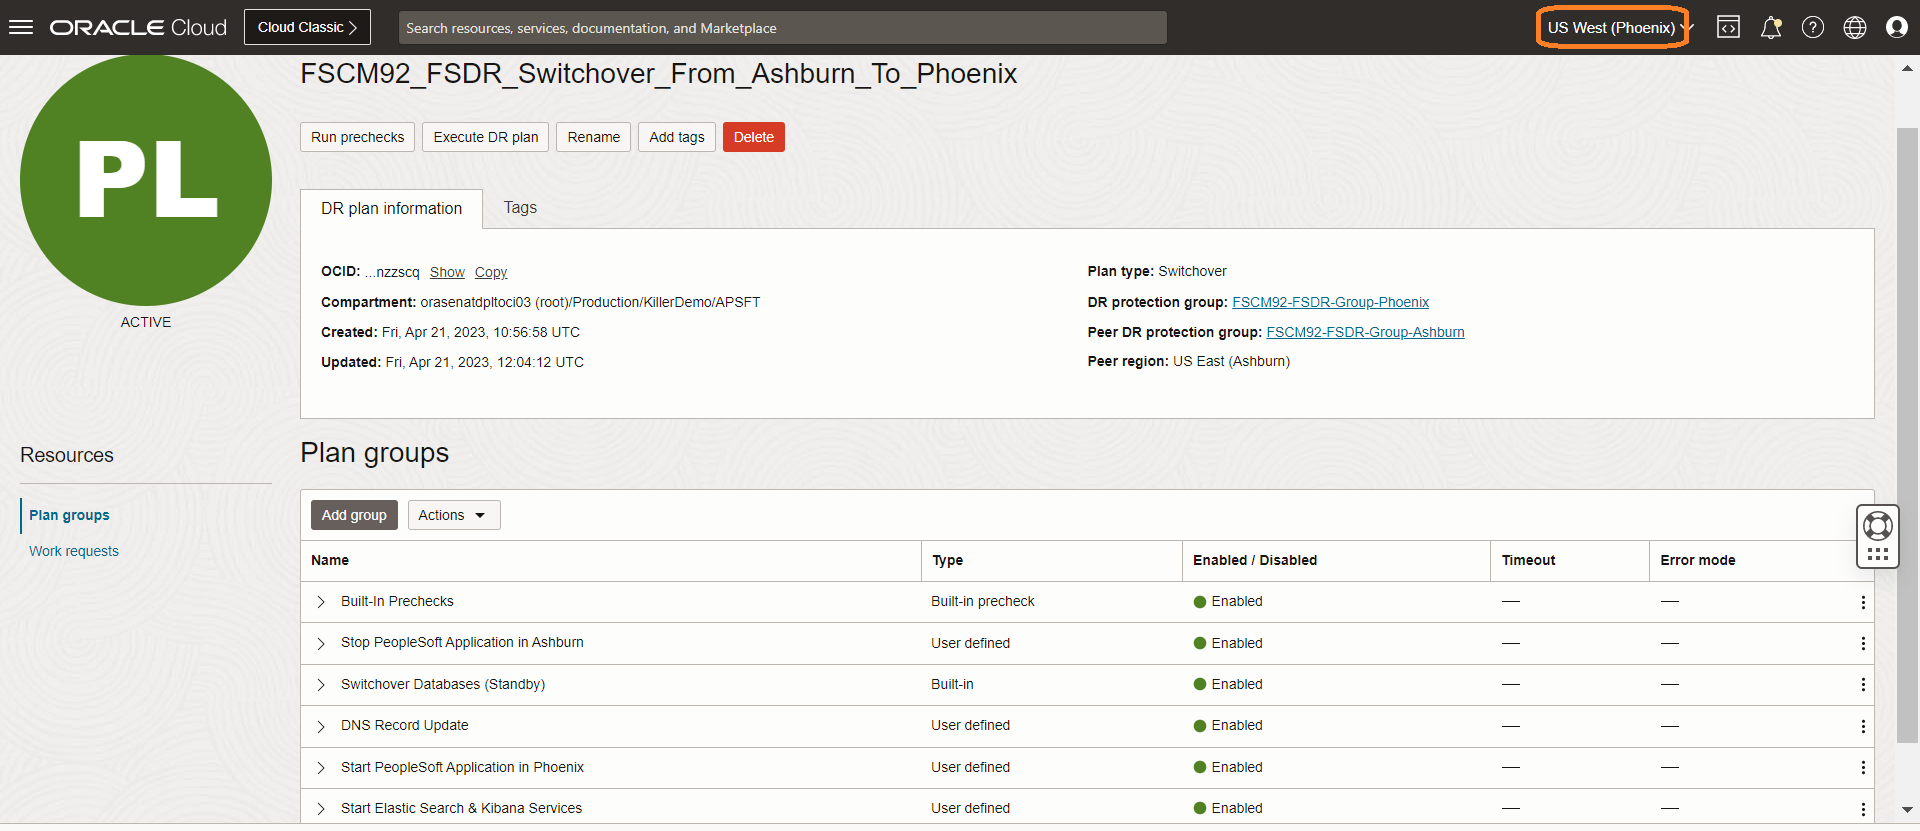
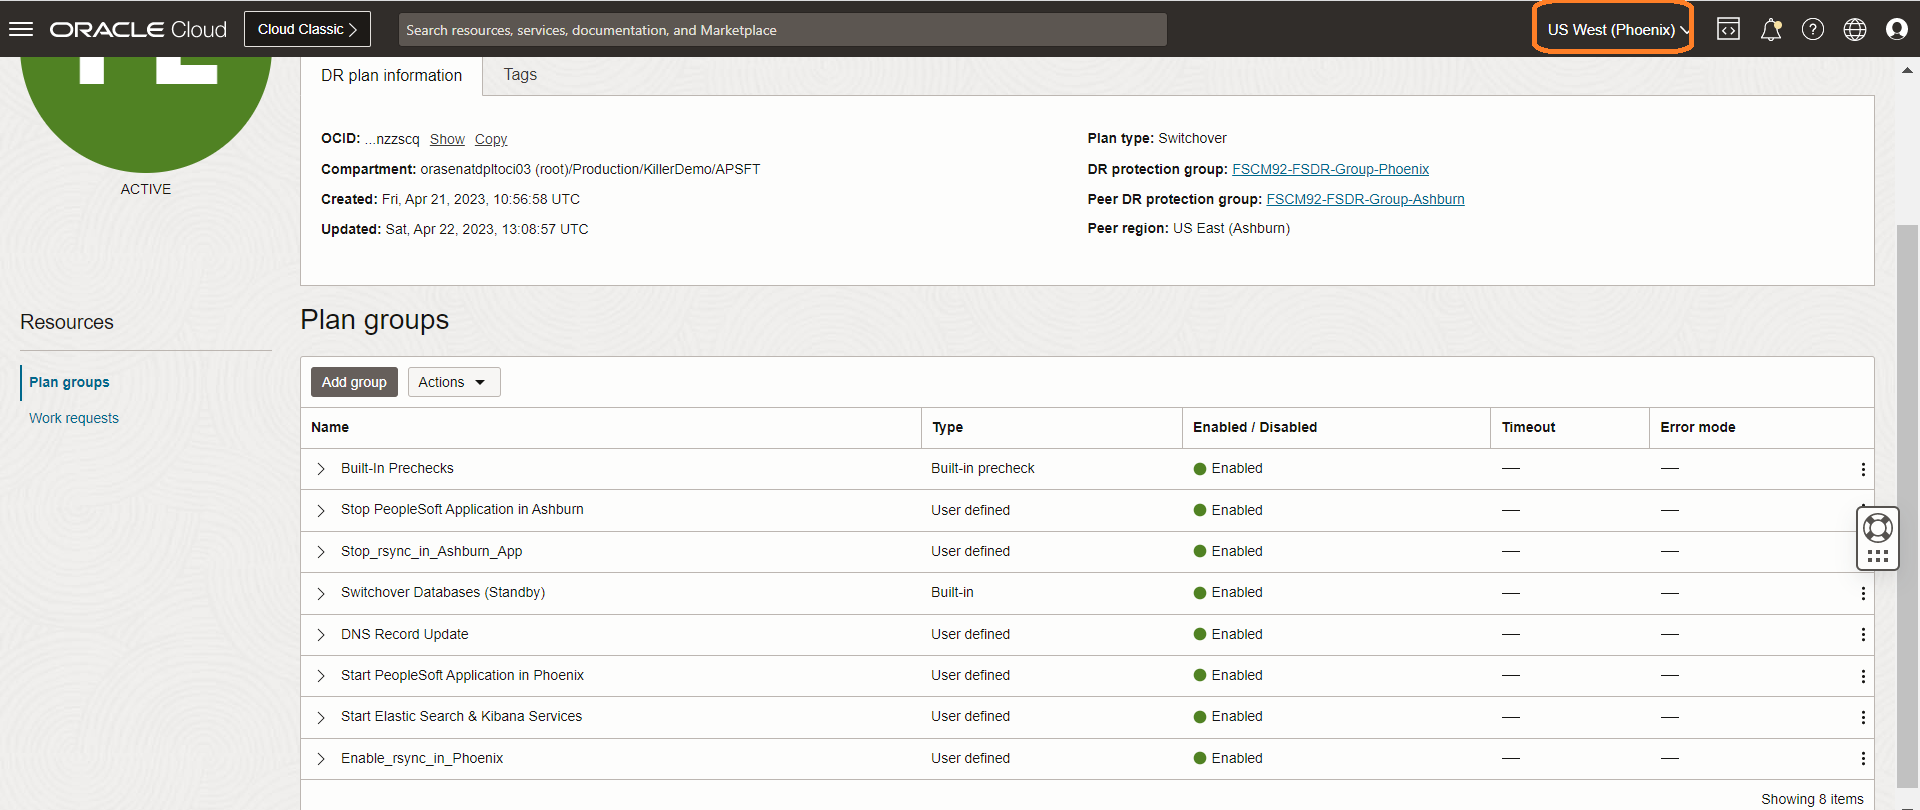
vb

diff --git a/peoplesoft-fullstack-dr/switchover-plan/switchover-plan.md b/peoplesoft-fullstack-dr/switchover-plan/switchover-plan.md
@@ -18,12 +18,15 @@ Estimated Time: 180 Minutes
 - Enable Run Commands on all the Compute Instances
 - Create a Switchover plan
 - Customize the Switchover plan - Add PeopleSoft Application Shutdown group
+- Customize the Switchover plan - Disable files synchronization (rsync) jobs in Ashburn
 - Customize the Switchover plan - Add DNS Record Update Script
 - Customize the Switchover plan - Add PeopleSoft Application Server boot up group
 - Customize the Switchover plan - Add PeopleSoft Process Scheduler Server (Linux) boot up group
 - Customize the Switchover plan - Add PeopleSoft Process Scheduler Server (Windows) boot up group
 - Customize the Switchover plan - Add PeopleSoft Web Server boot up group
 - Customize the Switchover plan - Add PeopleSoft Elastic Search & Kibana Service boot up group
+- Customize the Switchover plan - Enable files synchronization (rsync) jobs in Phoenix 
+- Customize the Switchover plan - DR Plan Re-Ordering
 
 ## Task 1: Enable Run Commands on an Instance
 
@@ -181,7 +184,7 @@ We will shutdown PeopleSoft Applicaitons in **Ashburn** region as we are doing t
   - Leave the Enable Step as ticked
   - Select Error mode as "Stop on error"
   - Leave the default "3600" seconds in Timeout in seconds
-  - In the region, select "US East (Ashburn)"
+  - In the region, select "**US East (Ashburn)**"
   - Select the "Run local script" option
   - Select the Application Server instance in "Target instance in compartment" where you have placed the Application Server Domain Shutdown script
   - In the script parameters, add the location of the Application Server Domain Shutdown script. Below is an example of Application Server Domain Shutdown script, please write a shutdown shell script according to your setup and configurations.
@@ -190,7 +193,7 @@ We will shutdown PeopleSoft Applicaitons in **Ashburn** region as we are doing t
 
     **psadmin -c shutdown! -d APPDOM01**
 
-    **cd /u01/app/psoft/fscm92-dbaas-vinay-app/ps\_cfg\_home/appserv/APPDOM01/**
+    **cd /u01/app/psoft/fscm92-dbaas-app/ps\_cfg\_home/appserv/APPDOM01/**
 
     **rm -rf CACHE**
 
@@ -210,7 +213,7 @@ Click on Add Step.
   - Leave the Enable Step as ticked
   - Select Error mode as "Stop on error"
   - Leave the default "3600" seconds in Timeout in seconds
-  - In the region, select "US East (Ashburn)"
+  - In the region, select "**US East (Ashburn)**"
   - Select the "Run local script" option
   - Select the Process Scheduler Server (Linux) instance in "Target instance in compartment" where you have placed the Process Scheduler Server Domain Shutdown script
   - In the script parameters, add the location of the Process Scheduler Server Domain Shutdown script. Below is an example of Process Scheduler Server Domain script, please write a shutdown shell script according to your setup and configurations.
@@ -219,7 +222,7 @@ Click on Add Step.
 
     **psadmin -p stop -d PRCSDOM01**
 
-    **cd /u01/app/psoft/fscm92-dbaas-vinay-prcs/ps\_cfg\_home/appserv/prcs/PRCSDOM01**
+    **cd /u01/app/psoft/fscm92-dbaas-prcs/ps\_cfg\_home/appserv/prcs/PRCSDOM01**
     
     **rm -rf CACHE** 
 
@@ -239,7 +242,7 @@ Click on Add Step.
   - Leave the Enable Step as ticked
   - Select Error mode as "Stop on error"
   - Leave the default "3600" seconds in Timeout in seconds
-  - In the region, select "US East (Ashburn)"
+  - In the region, select "**US East (Ashburn)**"
   - Select the "Run local script" option
   - Select the Process Scheduler Server (Windows) instance in "Target instance in compartment" where you have placed the Process Scheduler Server Domain Shutdown script
   - In the script parameters, add the location of the Process Scheduler Server Domain Shutdown script. Below is an example of Process Scheduler Server Domain script, please write a shutdown shell script according to your setup and configurations.
@@ -275,7 +278,7 @@ Click on Add Step.
   - Leave the Enable Step as ticked
   - Select Error mode as "Stop on error"
   - Leave the default "3600" seconds in Timeout in seconds
-  - In the region, select "US East (Ashburn)"
+  - In the region, select "**US East (Ashburn)**"
   - Select the "Run local script" option
   - Select the Web Server (Windows) instance in "Target instance in compartment" where you have placed the Web Server Domain Shutdown script
   - In the script parameters, add the location of theWeb Server Domain Shutdown script. Below is an example of Web Server Domain script, please write a shutdown shell script according to your setup and configurations.
@@ -284,7 +287,7 @@ Click on Add Step.
 
     **psadmin -w shutdown! -d WEBSERVER01** 
     
-    **cd /u01/app/psoft/fscm92-dbaas-vinay-web/ps\_cfg\_home/webserv/WEBSERVER01/applications/peoplesoft/PORTAL.war/**
+    **cd /u01/app/psoft/fscm92-dbaas-web/ps\_cfg\_home/webserv/WEBSERVER01/applications/peoplesoft/PORTAL.war/**
 
     **rm -rf cache**
 
@@ -302,7 +305,70 @@ Click on Add Step.
 
     ![phoenix-shutdown-ashburn-psft-done](./images/phoenix-shutdown-ashburn-psft-done.png)
 
-## Task 4: Customize the Switchover plan - Add DNS Record Update Script
+## Task 4: Customize the Switchover plan - Disable files synchronization (rsync) jobs in Ashburn
+
+As part of this task, we will disable all the synchronization jobs that are enabled to run in Ashburn region to keep DR (standby) in sync with production environment.
+
+1. Click on Add group.
+
+    ![add plan group](./images/phoenix-plangroup-add.png)
+
+2. We will disable cronjob (rsync) in Application Server. Add "Stop\_rsync\_in\_Ashburn\_App" User defined group. Click on Add Step.
+
+    ![phoenix-add-sync-stop-script](./images/phoenix-add-sync-stop-script.png)
+
+    ![phoenix-add-app-sync-stop-script](./images/phoenix-add-app-sync-stop-script.png)    
+
+    - Add *Disable\_rsync\_in\_Ashburn\_App* in Step name
+    - Leave the Enable Step as ticked
+    - Select Error mode as "Stop on error"
+    - Leave the default "3600" seconds in Timeout in seconds
+    - In the region, select "**US East (Ashburn)**"
+    - Select the "Run local script" option
+    - Select the server instance in "Target instance in compartment" where you have placed the cronjob (rsync) disable script
+    - In the script parameters, add the location of the cronjob (rsync) disable script.
+  
+    Click on Add Step.
+
+3. We will now disable cronjob (rsync) in Process Scheduler Server. Click on Add Step.
+
+    ![phoenix-add-sync-stop-script](./images/phoenix-add-sync-stop-script2.png)
+
+    ![phoenix-add-prcs-sync-stop-script](./images/phoenix-add-prcs-sync-stop-script.png)    
+
+    - Add *Disable-rsync-in-Ashburn-PRCS* in Step name
+    - Leave the Enable Step as ticked
+    - Select Error mode as "Stop on error"
+    - Leave the default "3600" seconds in Timeout in seconds
+    - In the region, select "**US East (Ashburn)**"
+    - Select the "Run local script" option
+    - Select the server instance in "Target instance in compartment" where you have placed the cronjob (rsync) disable script
+    - In the script parameters, add the location of the cronjob (rsync) disable script.
+
+    Click on Add Step.
+
+4. We will now disable cronjob (rsync) in Web Server. Click on Add Step.
+
+    ![phoenix-add-sync-stop-script](./images/phoenix-add-sync-stop-script3.png)
+
+    ![phoenix-add-web-sync-stop-script](./images/phoenix-add-web-sync-stop-script.png)    
+
+    - Add *Disable-rsync-in-Ashburn-WEB* in Step name
+    - Leave the Enable Step as ticked
+    - Select Error mode as "Stop on error"
+    - Leave the default "3600" seconds in Timeout in seconds
+    - In the region, select "**US East (Ashburn)**"
+    - Select the "Run local script" option
+    - Select the server instance in "Target instance in compartment" where you have placed the cronjob (rsync) disable script
+    - In the script parameters, add the location of the cronjob (rsync) disable script.
+
+  Click on Add Step.
+
+  Click on Add.
+
+    ![phoenix-add-sync-stop-script-done](./images/add-sync-stop-script-done.png)    
+
+## Task 5: Customize the Switchover plan - Add DNS Record Update Script
 
 1. Click on Add group.
 
@@ -324,17 +390,7 @@ Click on Add Step.
 
     **#!/bin/bash**
 
-    **oci dns record rrset update**
-
-    **--zone-name-or-id "psftchatbot.tk"**
-
-    **--domain "fscm92.psftchatbot.tk"**
-
-    **--rtype "A"**
- 
-    **--items '[{"domain":"fscm92.psftchatbot.tk","rdata":"158.101.24.177","rtype":"A","ttl":60}]'**
-
-    **--force**
+    **oci dns record rrset update --config-file /u01/app/psoft/fscm92-dbaas-app/home/psadm2/.oci/config --zone-name-or-id "psftchatbot.tk" --domain "fscm92.psftchatbot.tk" --rtype "A" --items '[{"domain":"fscm92.psftchatbot.tk","rdata":"158.101.24.177","rtype":"A","ttl":60}]' --force**
 
   - Run as user will be the username who has access to update DNS records.
 
@@ -344,7 +400,7 @@ Click on Add Step.
 
   ![phoenix-add-dns-update-group](./images/phoenix-add-dns-update-group.png)
 
-## Task 5: Customize the Switchover plan - Add PeopleSoft Application Boot-up Group
+## Task 6: Customize the Switchover plan - Add PeopleSoft Application Boot-up Group
 
 1. Click on Add group.
 
@@ -368,7 +424,7 @@ Click on Add Step.
 
   **#!/bin/bash**
 
-  **cd /u01/app/psoft/fscm92-dbaas-vinay-app/ps\_cfg\_home/appserv/APPDOM01/**
+  **cd /u01/app/psoft/fscm92-dbaas-app/ps\_cfg\_home/appserv/APPDOM01/**
 
   **rm -rf CACHE**
 
@@ -399,7 +455,7 @@ Click on Add Step.
 
   **#!/bin/bash**
 
-  **cd /u01/app/psoft/fscm92-dbaas-vinay-prcs/ps\_cfg\_home/appserv/prcs/PRCSDOM01**
+  **cd /u01/app/psoft/fscm92-dbaas-prcs/ps\_cfg\_home/appserv/prcs/PRCSDOM01**
 
   **rm -rf CACHE**
 
@@ -467,7 +523,7 @@ Click on Add Step.
 
     **#!/bin/bash**
 
-    **cd /u01/app/psoft/fscm92-dbaas-vinay-web/ps\_cfg\_home/webserv/WEBSERVER01/applications/peoplesoft/PORTAL.war/**
+    **cd /u01/app/psoft/fscm92-dbaas-web/ps\_cfg\_home/webserv/WEBSERVER01/applications/peoplesoft/PORTAL.war/**
 
     **rm -rf cache**
 
@@ -481,7 +537,7 @@ Click on Add Step.
  
   Click on Add.
 
-## Task 6: Customize the Switchover plan - Add Elastic Search and Kibana Services Boot-up Scripts
+## Task 7: Customize the Switchover plan - Add Elastic Search and Kibana Services Boot-up Scripts
     
 1. Click on Add group.
 
@@ -531,7 +587,70 @@ You will now be able to see all the built in and user defined custom groups in t
 
    ![phoenix-dr-plan-all-group](./images/phoenix-dr-plan-all-group.png)
 
-## Task 76: Customize the Switchover plan - DR Plan Re-Ordering
+## Task 8: Customize the Switchover plan - Enable files synchronization (rsync) jobs in Phoenix
+
+ As part of this task, we will enable synchronization (rsync) jobs in Phoenix to reverse the sync from Phoenix to Ashburn post switchover as the roles (priamry and standby) are now reversed.
+
+ 1. Click on Add group.
+
+    ![add plan group](./images/phoenix-plangroup-add.png)
+
+2. We will enable cronjob (rsync) in Application Server. Add "Enable_rsync_in_Phoenix" User defined group. Click on Add Step.
+
+    ![phoenix-add-sync-start-script](./images/phoenix-add-sync-start-script.png)
+
+    ![phoenix-add-app-sync-start-script](./images/phoenix-add-app-sync-start-script.png)    
+
+    - Add *Enable-rsync-in-Ashburn-App* in Step name
+    - Leave the Enable Step as ticked
+    - Select Error mode as "Stop on error"
+    - Leave the default "3600" seconds in Timeout in seconds
+    - In the region, select "US West (Phoenix)"
+    - Select the "Run local script" option
+    - Select the server instance in "Target instance in compartment" where you have placed the cronjob (rsync) enable script
+    - In the script parameters, add the location of the cronjob (rsync) enable script.
+  
+    Click on Add Step.
+
+3. We will now enable cronjob (rsync) in Process Scheduler Server. Click on Add Step.
+
+    ![phoenix-add-sync-stop-script](./images/phoenix-add-sync-start-script2.png)
+
+    ![phoenix-add-prcs-sync-stop-script](./images/phoenix-add-prcs-sync-start-script.png)    
+
+    - Add *Enable-rsync-in-Ashburn-PRCS* in Step name
+    - Leave the Enable Step as ticked
+    - Select Error mode as "Stop on error"
+    - Leave the default "3600" seconds in Timeout in seconds
+    - In the region, select "US West (Phoenix)"
+    - Select the "Run local script" option
+    - Select the server instance in "Target instance in compartment" where you have placed the cronjob (rsync) enable script
+    - In the script parameters, add the location of the cronjob (rsync) enable script.
+
+    Click on Add Step.
+
+4. We will now enable cronjob (rsync) in Web Server. Click on Add Step.
+
+    ![phoenix-add-sync-stop-script](./images/phoenix-add-sync-start-script3.png)
+
+    ![phoenix-add-web-sync-stop-script](./images/phoenix-add-web-sync-start-script.png)    
+
+    - Add *Enable-rsync-in-Ashburn-WEB* in Step name
+    - Leave the Enable Step as ticked
+    - Select Error mode as "Stop on error"
+    - Leave the default "3600" seconds in Timeout in seconds
+    - In the region, select "US West (Phoenix)"
+    - Select the "Run local script" option
+    - Select the server instance in "Target instance in compartment" where you have placed the cronjob (rsync) enable script
+    - In the script parameters, add the location of the cronjob (rsync) enable script.
+
+  Click on Add Step.
+
+  Click on Add.
+
+    ![phoenix-add-sync-start-script-done](./images/add-sync-start-script-done.png)    
+
+## Task 9: Customize the Switchover plan - DR Plan Re-Ordering
 
   We will now re-order the DR plan to stop PeopleSoft Application in Primary (*Ashburn*) region first 
   followed by switchover to Standby (*Phoenix*) region.
@@ -548,7 +667,17 @@ You will now be able to see all the built in and user defined custom groups in t
 
    Click Save changes.
 
-  Now the DR Swithover plan is re-ordered as below.
+2. Click on Actions under the DR plan and click on **Reorder groups**.
+
+   ![phoenix-dr-plan-re-order](./images/phoenix-dr-plan-re-order.png)
+
+   Move group **Stop\_rsync\_in\_Ashburn\_App** order above **Switchover Databases (Standby)**.
+
+   ![phoenix-dr-plan-re-order-sync](./images/phoenix-dr-plan-re-order-sync.png) 
+
+   Click Save changes.
+
+   Now the DR Swithover plan is re-ordered as below.
 
    ![phoenix-dr-plan-re-order-done](./images/phoenix-dr-plan-re-order-done.png)
 

diff --git a/peoplesoft-fullstack-dr/switchover-prechecks/switchover-prechecks.md b/peoplesoft-fullstack-dr/switchover-prechecks/switchover-prechecks.md
@@ -49,7 +49,7 @@ Estimated Time: 15 Minutes
 
 2. After 2-3 mins, **Built-in Prechecks**  will be completed successfully. You can verify the duration of each step, status, duration of entire prechecks, etc. *It is essential to have successful completion of pre-check execution*
 
-      ![prechecks completed](./images/phoenix-execute-done.png)
+      ![prechecks completed](./images/phoenix-execute-donevdvf.png)
 
    You may now **proceed to the next lab**.
 

diff --git a/peoplesoft-fullstack-dr/introduction/introduction.md b/peoplesoft-fullstack-dr/introduction/introduction.md
@@ -103,6 +103,5 @@ You may now **proceed to the next lab.**
 ## Acknowledgements
 
 - **Author** -  Vinay Shivanna, Principal Cloud Architect
-- **Contributors** - 
 - **Last Updated By/Date** -  Vinay Shivanna, April 2023
 

diff --git a/peoplesoft-fullstack-dr/switchover-execute/switchover-execute.md b/peoplesoft-fullstack-dr/switchover-execute/switchover-execute.md
@@ -76,6 +76,5 @@ You may now **proceed to the next lab**.
 ## Acknowledgements
 
 - **Author** -  Vinay Shivanna, Principal Cloud Architect
-- **Contributors** - 
 - **Last Updated By/Date** -  Vinay Shivanna, April 2023
 
